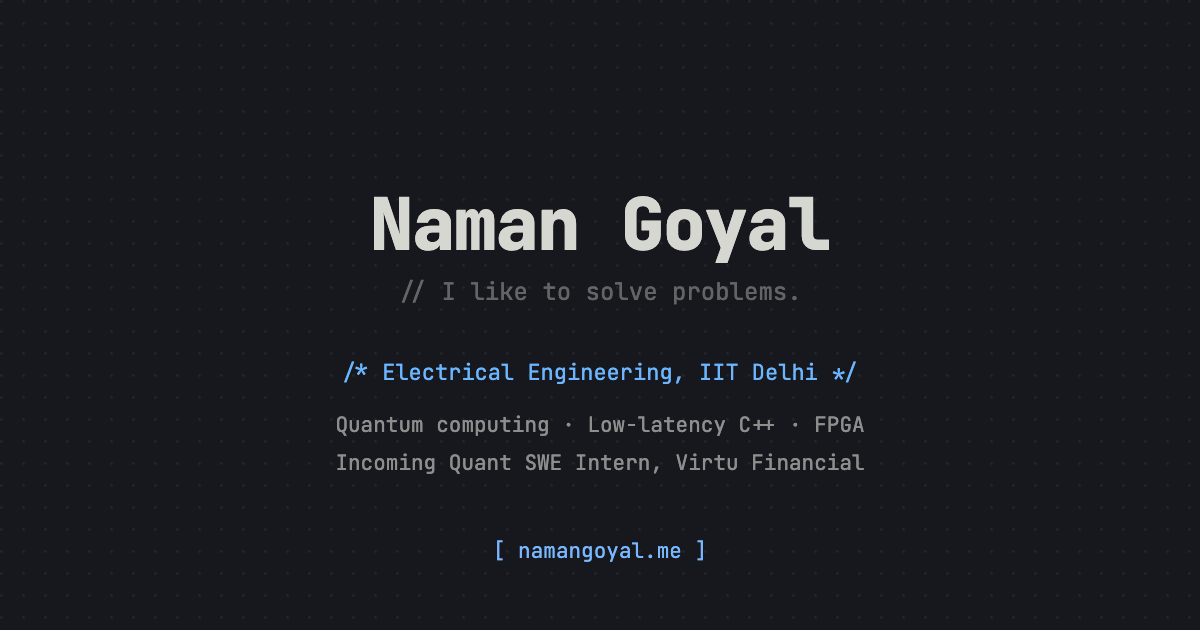
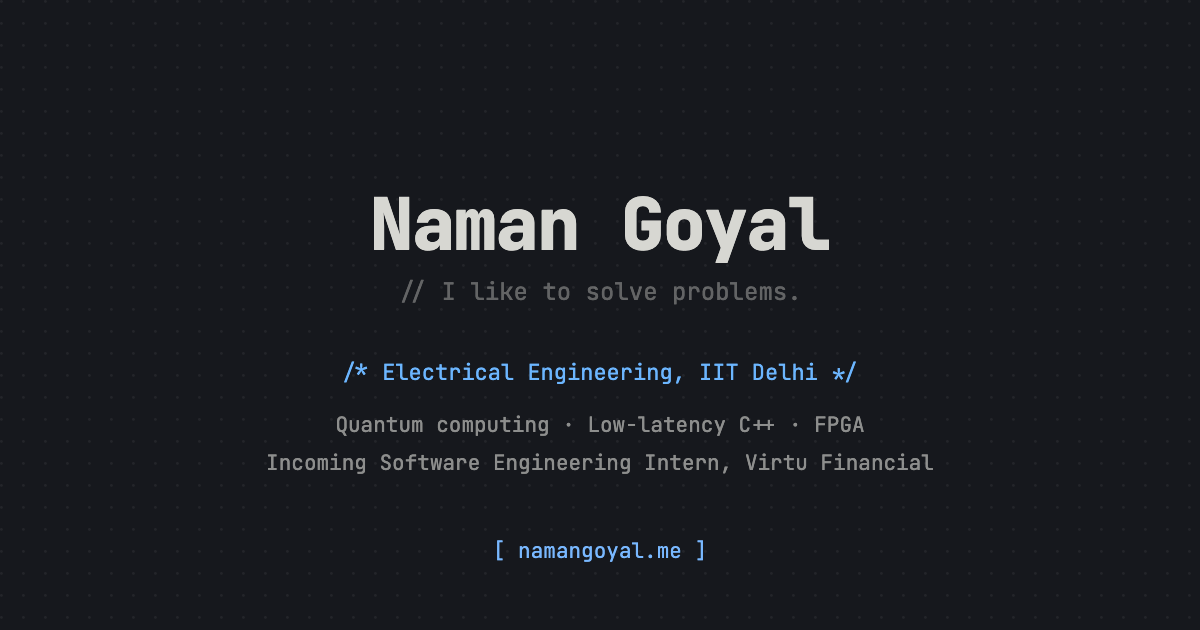
Fix the Virtu role title: Software Engineering Intern
I wrote "Quantitative Software Engineering Intern" everywhere. The role is
a Software Engineering Internship. That was my inference, never Naman's
words, and it should have been checked before it went public.

Corrected in: hero status line, home intro, news entry, experience entry,
about copy, CV and page meta descriptions, the Person schema occupation,
and the OG card. Keyword list drops "quantitative developer" / "quant
developer" for "software engineer" and "quantum computing research"; the
title now leads with quantum computing, which is the actual research.

The one remaining "quantitative" is the AMS Derive Prosterior entry, where
it correctly describes the competition.

Changed region(s): [[0.2158, 0.7238, 0.7708, 0.754]]

diff --git a/src/data/site.ts b/src/data/site.ts
@@ -11,7 +11,7 @@ export const site = {
   role: "Electrical Engineering, IIT Delhi \u00B7 Dept. Rank 1 \u00B7 CGPA 9.22",
 
   /** Current position. Facts, stated plainly — no tagline. */
-  status: "Incoming Quantitative Software Engineer Intern \u00B7 Virtu Financial \u00B7 Summer 2027",
+  status: "Incoming Software Engineering Intern \u00B7 Virtu Financial \u00B7 Summer 2027",
 
   email: "namangoyal@tutamail.com",
   location: "New Delhi, India",
@@ -36,9 +36,9 @@ export const site = {
 
   /** SEO. `title` is the <title>; description is the search snippet. */
   seo: {
-    title: "Naman Goyal — IIT Delhi | Low-Latency Systems & Quant",
+    title: "Naman Goyal — IIT Delhi | Quantum Computing & Low-Latency Systems",
     description:
-      "Naman Goyal — Electrical Engineering at IIT Delhi, Dept Rank 1, incoming quantitative software engineering intern at Virtu Financial. Low-latency C++, FPGA, and hardware-security research.",
+      "Naman Goyal — Electrical Engineering at IIT Delhi, Dept Rank 1. Quantum computing research, hardware security at CISPA, and low-latency C++ / FPGA systems. Incoming software engineering intern at Virtu Financial.",
     /** 1200×630 image used for link previews on social / chat apps. */
     ogImage: "/og-image.png",
     /** Helps search engines and rich results understand who you are. */
@@ -48,8 +48,8 @@ export const site = {
       "IIT Delhi",
       "Electrical Engineering",
       "Virtu Financial",
-      "quantitative developer",
-      "quant developer",
+      "software engineer",
+      "quantum computing research",
       "low latency C++",
       "high frequency trading systems",
       "tick to trade",

diff --git a/src/data/about.ts b/src/data/about.ts
@@ -5,7 +5,7 @@
 /** Each string is one paragraph. Keep it to two or three. */
 export const aboutParagraphs: string[] = [
   "I'm a third-year Electrical Engineering student at IIT Delhi, ranked first in my department. I'm drawn to problems that sit between disciplines — where a clean algorithm, a tight C++ implementation, and real silicon all have to agree.",
-  "Next summer I join Virtu Financial as a quantitative software engineering intern. Before that: hardware-security research at CISPA, and the systems I build to sharpen the craft — a tick-to-trade FPGA pipeline, a low-latency C++ execution engine, quantum simulators. My background is competitive mathematics and science, and I apply it to real software and hardware engineering.",
+  "Next summer I join Virtu Financial as a software engineering intern. Before that: hardware-security research at CISPA, and the systems I build to sharpen the craft — a tick-to-trade FPGA pipeline, a low-latency C++ execution engine, quantum simulators. My background is competitive mathematics and science, and I apply it to real software and hardware engineering.",
 ];
 
 export interface Education {

diff --git a/src/data/news.ts b/src/data/news.ts
@@ -17,7 +17,7 @@ export interface NewsItem {
 export const news: NewsItem[] = [
   {
     date: "Aug 2026",
-    text: "Joining Virtu Financial as a Quantitative Software Engineering Intern for Summer 2027.",
+    text: "Joining Virtu Financial as a Software Engineering Intern for Summer 2027.",
   },
   {
     date: "Aug 2026",

diff --git a/src/data/experience.ts b/src/data/experience.ts
@@ -18,7 +18,7 @@ export interface Role {
 export const experience: Role[] = [
   {
     org: "Virtu Financial",
-    title: "Quantitative Software Engineering Intern",
+    title: "Software Engineering Intern",
     period: "Summer 2027",
     upcoming: true,
     points: [],
